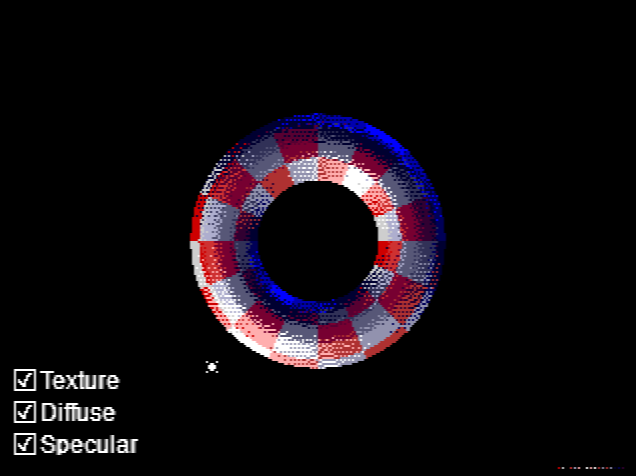
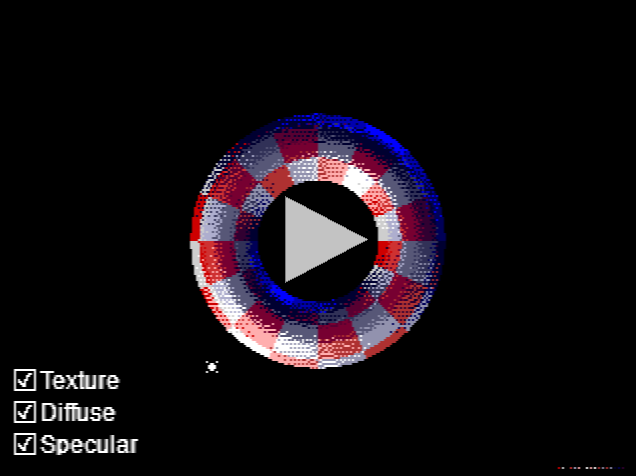
Added tech breakdown

Changed region(s): [[0.4481, 0.4118, 0.5676, 0.5882]]

diff --git a/res/resources.h b/res/resources.h
@@ -1,0 +1,19 @@
+#include <genesis.h>
+
+#ifndef _RES_RESOURCES_H_
+#define _RES_RESOURCES_H_
+
+extern const u8 Taiko[12800];
+extern const u8 HiHat[62720];
+extern const u8 TorusMaterialData[252];
+extern const u8 TorusDiffuseMaterialData[122];
+extern const SpriteDefinition PointerSprite;
+extern const SpriteDefinition TutorialMoveLight;
+extern const SpriteDefinition TutorialToggleTexture;
+extern const SpriteDefinition TutorialCycleFeatures;
+extern const Image Torus0;
+extern const Image Torus1;
+extern const Image Title;
+extern const Image MaterialModifierUIImage;
+
+#endif // _RES_RESOURCES_H_

diff --git a/README.MD b/README.MD
@@ -1,11 +1,10 @@
 # Normal map demo
 
-Demo showcasing the usage of normal maps on a Sega Megadrive. Works by assigning palette entries to normal directions and modifying the colors
-according to the angle between a directional light and the normals. By default the light direction spins randomly around the torus.
+Demo showcasing the usage of normal maps on a Sega Megadrive. It shows a checkered torus with a double-sided directional light spinning randomly around it.
 It's possible to manually control the direction and toggle the texture and light diffuse and specular components. Random spinning will resume automaticaly
 after 3 seconds of inactivity.
 
-[<p align="center"><img src="readmeresources/SampleImage.png" width="636" height="476"/></p>](https://www.youtube.com/embed/Zn50HsH6ntU)
+[<p align="center"><img src="readmeresources/SampleImage.png"/></p>](https://www.youtube.com/embed/Zn50HsH6ntU)
 
 ## Controls
 * You can press any button during the title screen to shorten its duration.
@@ -14,7 +13,53 @@ after 3 seconds of inactivity.
 * Use the B button in port 1 controller or the right button in port 2 Sega Mouse to cycle the state of diffuse and specular components
 
 ## Tech breakdown:
-TODO
+The idea is exploiting the fact Sega Megarive graphics are pallete-based. Computing the light of every pixel and uploading the result to the VRAM would be extremely expensive (although I must admit I never got to implement that approach so I do not have actual measurements). Instead, we can choose a set of normal directions we want to support (a normals pallete) and assign each of them to a specific entry in the Color RAM. Then we can compute the lighting for each of these entries and all pixels will be automatically updates.
+
+### Image conversion
+The first step is converting the source images (albedo, mask and normal map) to a indexed image + a material file containing the actual properties for each entry.
+<p align="center"><img src="readmeresources/imageconversiondiagram.png"/></p>
+The normal map must be quantized with the chosen normals pallete. The albedo image may also need to be quantized to a more limited pallete (more on that later).
+
+#### Encoded image
+The 64 colors Megadrive pallete is divided in four 16 color sub-palletes. Well, actually 15, because the first entry is intepreted as transparent. Each 8x8 tile can only use one of these sub-palletes. If we want to use more than 15 colors in each of these regions, we need to layer multiple images one on top of another (be it using sprites or tile-map planes). For example, the torus in this demo requires 26 pallete entries (2 albedo colors * 13 normals), so we need to split the image in 2 layers
+<p align="center"><img src="readmeresources/splitimages.png"/></p>
+The color palette in the resulting image(s) is not relevant for the lightning algorithm, but for debugging purposes they should convey the encoded properties.
+
+#### Material file
+The material file contains:
+* **Albedo colors:** Mostly for debugging purposes. Stored as non-packed RGB333.
+* **Normals groups:** Ranges of sub-pallete entries needed to represent the material entries on each layer.
+* **Normals pallete:** Needed to compute the dot products with the light direction. Stored as 3-byte vectors, where each byte represent a value in the [-1, 1) range.
+* **Shades:** Precomputed shades for each albedo color and each possible light intensity combination (**NOTE:** the Megadrive has 3-bits per color component, so unless you want to get creative 8 shades per color should be enough). The number of shades must be a power of 2 (to use bit shifting instead of multiplications/division). To save on expensive multiplications, the light color will be baked in.
+Shades data is stored in 2 different components:
+    * **Diffuse:** Each shade is the lerp between pure black and the light color for it's corresponding level.
+    * **Specular:** This component is optional. Follows the Blinn-Phong reflection model. Each shade is also the lerp between pure black and the light color for it's corresponding level, but the level doesn't grow lienarly. Instead is computed as: specular intensity * pow(level, specular hardness). **NOTE:** Specular is additive, so it must not be modulated by albedo colors. The final color must be computed in real time.
+**NOTE:** When specular component is not used, diffuse shades can be stored directly as 16-bit VDP colors (the exact data that will be uploaded to CRAM). This saves a few bit manipulations in run time to generate them. But in order to use the specular component we need to perform color math, so it's better to store them as non-packed RGB333 to keep direct access to individual components.
+
+### Loading the material file
+Material files can be directly attached to the ROM using SGDK's rescomp.
+Normals groups need to be processed in loading time to compute the absolute pallete indices after mapping each of them to the sub-palletes specified by the user.
+<p align="center"><img src="readmeresources/material.png"/></p>
+In order to save some RAM, we can leave all the shades data in the ROM. We still need to create the pointers to them in run time, though. **NOTE:** VDP colors are 16-bit integers. In order to access them, they must be aligned to 16-bits. Depending on the contents on the material file, we may need to add one byte of padding before the start of the diffuse component.
+
+### Runtime light computation
+The lighting is computed for each component of each material entry.
+#### Diffuse
+The light strenght is computed as the dot prodcut between the light direction and normal. Then the strength is mapped into the pre-computed shades range and the closest shade index is calculated. If the light strength is negative, the shades for the back light will be used. Else, the front ones.
+#### Specular
+The specular component works similarly to the diffuse one, but instead of the light direction, the **half vector** is used. Where **half vector** = normalized(light direction + view direction). The view direction is considered fixed: from the screen center straight into the screen or (0, 0, -1).
+The specular shade is then added with the diffuse shade to obtain the final color.
+
+### Limitations
+The main limitation is the number of colors available in the CRAM. We need one color entry for each valid combination of properties (in this case albedo and normal). Morover, since the colors are split in 4 sub-palletes, mixing and matching them is even more complex. As already mentioned, this problem can be mitigated by layering multiple images, each with a different sub-palette. The problem with this approach is every layer wastes VRAM and sprites/scroll planes.
+On the flip side, the fewer the entries we need to compute the lighting for, the faster the smaller the processing cost.
+
+### Cost
+Lighting the torus with both diffuse and specular takes around 24% of the frame:
+<p align="center"><img src="readmeresources/costdiffuseandspecular.png"/></p>
+On the other hand, diffuse only takes around 10%
+<p align="center"><img src="readmeresources/costdiffuseonly.png"/></p>
+It's centainly not free, but it still leaves a substantial amount of time of time to perform other tasks. Besides, the current code is not specially optimized, so there is still margin for improvement.
 
 ## Tech Stack:
 * [SGDK 2.11](https://github.com/Stephane-D/SGDK/releases/tag/v2.11) for handling all Sega Megadrive low-level management
